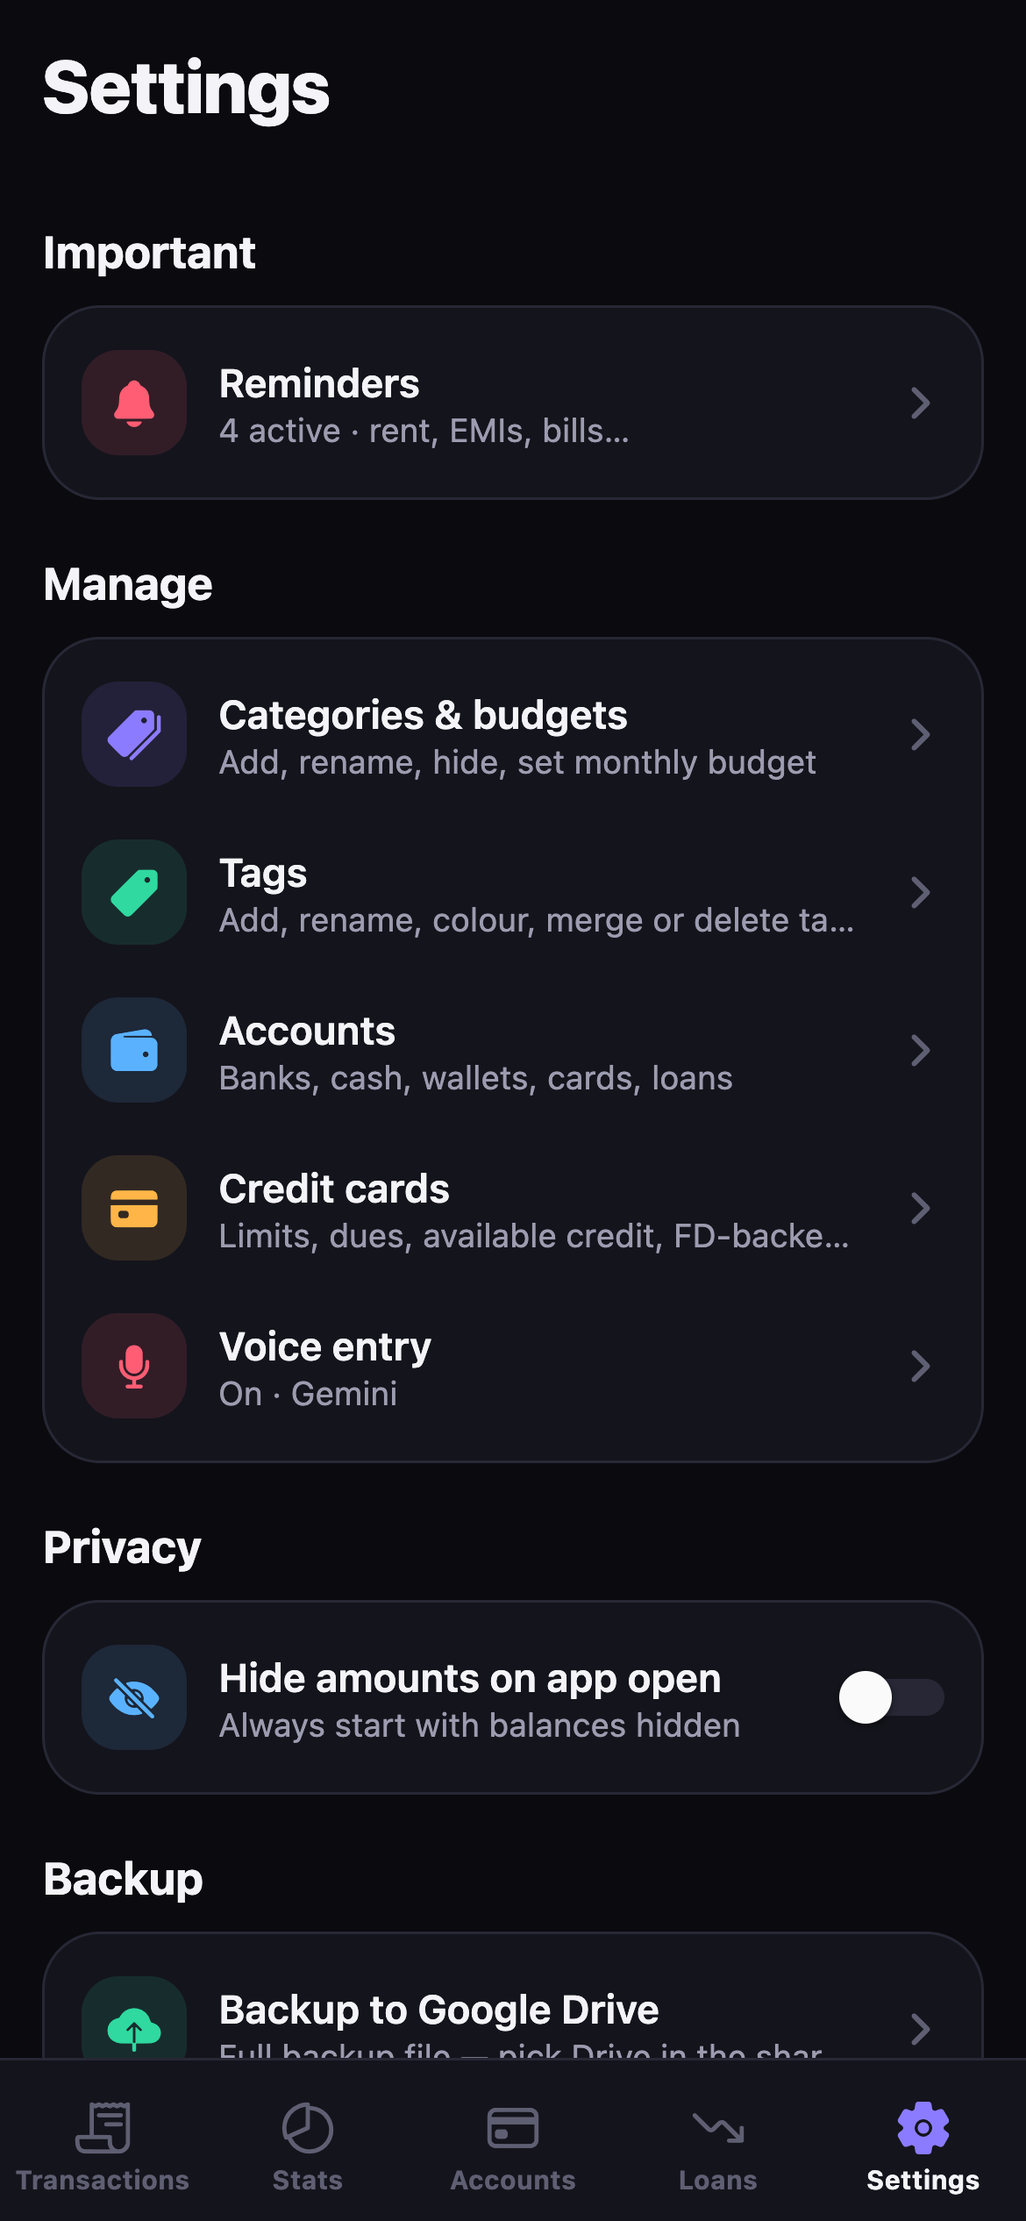
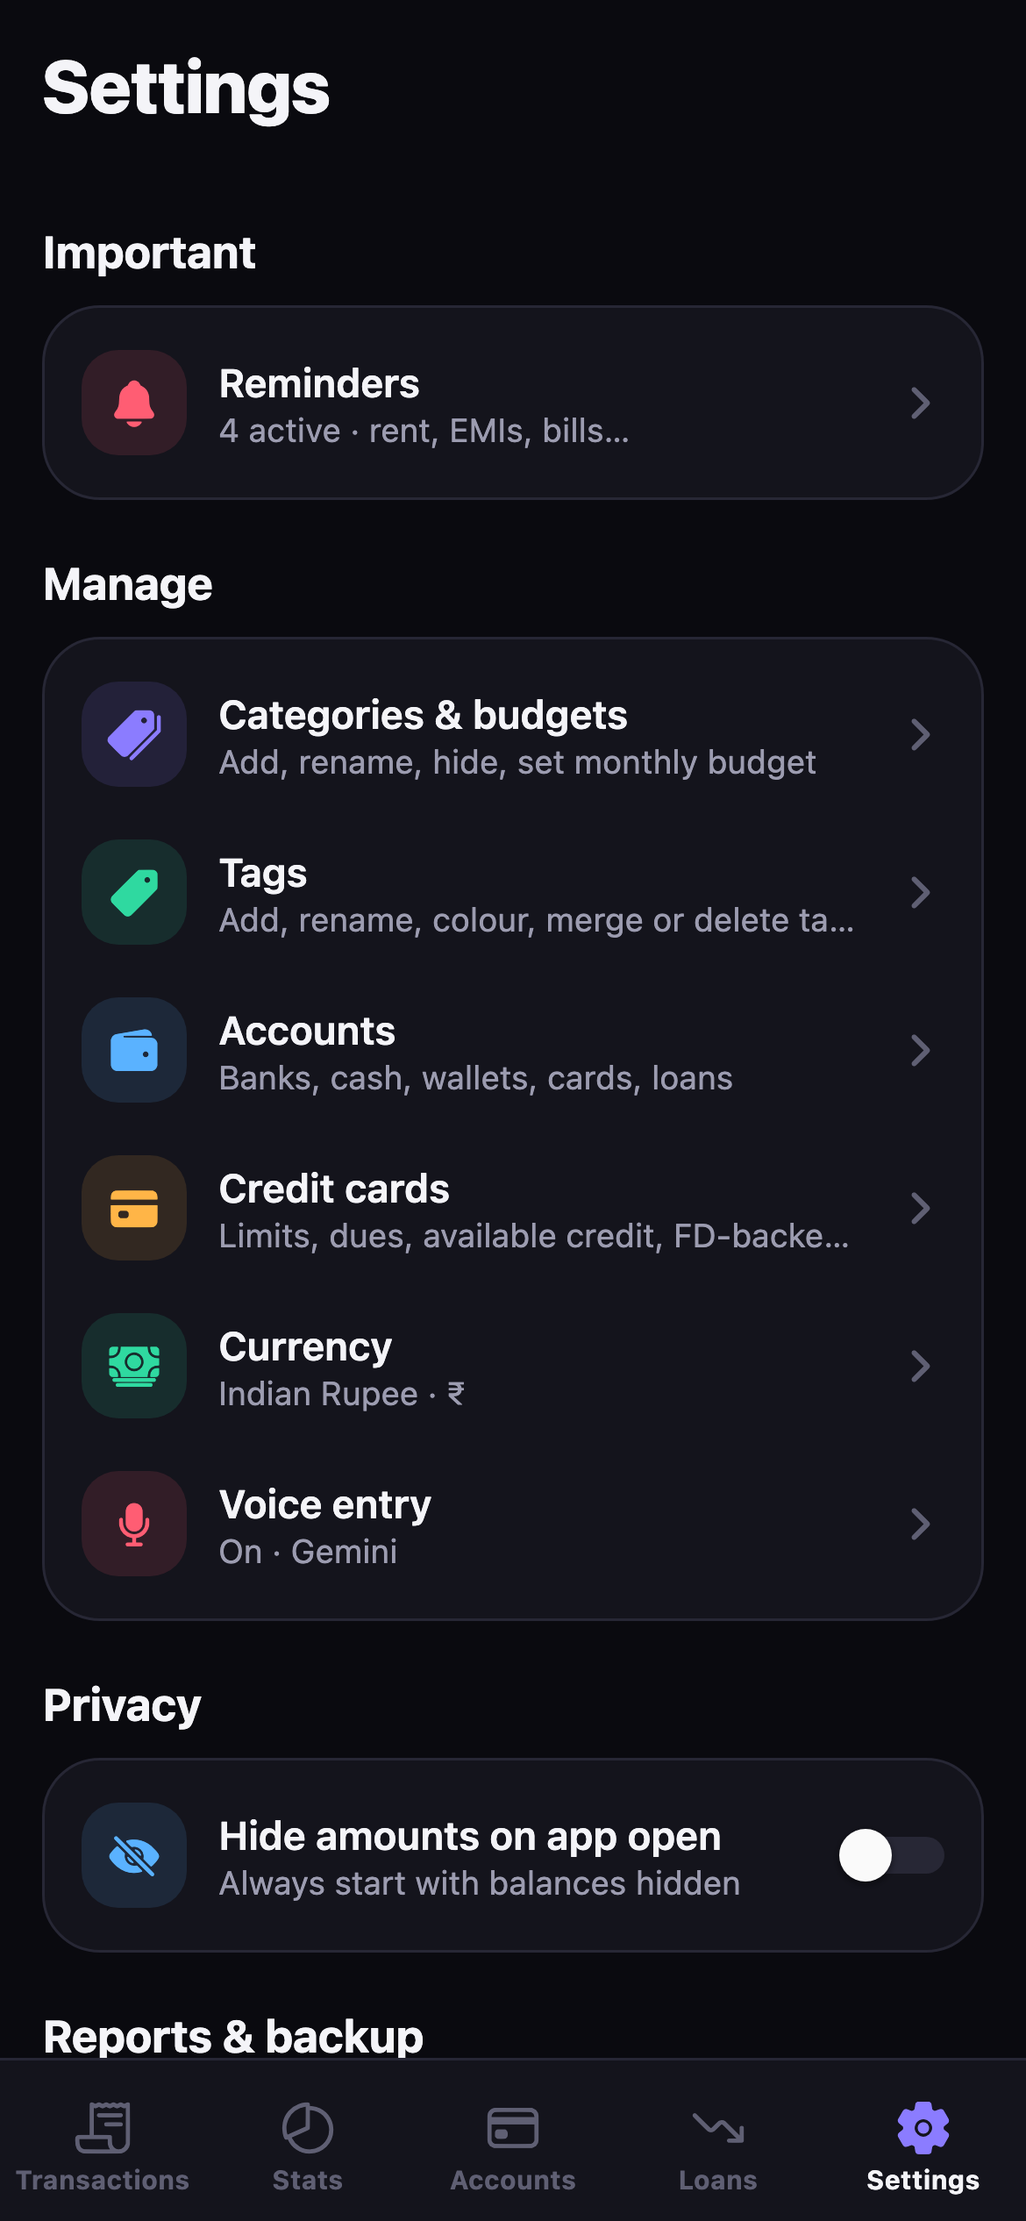
Backup, currency, statements and privacy policy
- Privacy policy page (/privacy) covering on-device data, Gemini, backups
  and Google Drive (drive.appdata, Limited Use), linked from the footer
- Automatic backup showcase, gallery shot and FAQs (uninstall, new phone)
- Currency, PDF statement, first-account and balance-fix copy and screenshots

diff --git a/app/data.ts b/app/data.ts
@@ -1,5 +1,6 @@
 import {
   BellRing,
+  Coins,
   ChartPie,
   CreditCard,
   DatabaseBackup,
@@ -33,8 +34,11 @@ export const SHOTS: Shot[] = [
   { id: '02-add-transaction', title: 'Add with a calculator keypad', group: 'Transactions' },
   { id: '03-hold-to-peek', title: 'Hold to peek', group: 'Transactions' },
   { id: '21-search', title: 'Search and filters', group: 'Transactions' },
+  { id: '28-first-account', title: 'Guided first setup', group: 'Transactions' },
+  { id: '31-dollars', title: 'Dollars, euros and more', group: 'Transactions' },
   { id: '04-voice-guide', title: 'Speak your expenses', group: 'Voice' },
   { id: '05-voice-review', title: 'Check before saving', group: 'Voice' },
+  { id: '29-voice-not-found', title: 'Flags what it can’t find', group: 'Voice' },
   { id: '25-voice-settings', title: 'Voice settings', group: 'Voice' },
   { id: '06-scan-bill', title: 'Scan a bill', group: 'Bill scan' },
   { id: '07-scanning', title: 'AI reads every line', group: 'Bill scan' },
@@ -45,6 +49,8 @@ export const SHOTS: Shot[] = [
   { id: '12-stats-yearly', title: 'The whole year', group: 'Stats' },
   { id: '13-stats-tags', title: 'Yearly categories', group: 'Stats' },
   { id: '14-budgets', title: 'Category budgets', group: 'Stats' },
+  { id: '32-statement', title: 'PDF statements', group: 'Stats' },
+  { id: '33-statement-pdf', title: 'A report you can share', group: 'Stats' },
   { id: '15-accounts', title: 'Accounts and net worth', group: 'Money' },
   { id: '16-credit-cards', title: 'Credit cards', group: 'Money' },
   { id: '17-loans', title: 'Loans and EMIs', group: 'Money' },
@@ -53,7 +59,9 @@ export const SHOTS: Shot[] = [
   { id: '20-tags', title: 'Coloured tags', group: 'Planning' },
   { id: '22-hidden-amounts', title: 'Hide amounts', group: 'Planning' },
   { id: '23-settings', title: 'Settings', group: 'Settings' },
-  { id: '24-settings-more', title: 'Backup, CSV and more', group: 'Settings' },
+  { id: '24-settings-more', title: 'Statements, backup and CSV', group: 'Settings' },
+  { id: '34-backup', title: 'Automatic backup', group: 'Settings' },
+  { id: '30-currency', title: 'Pick your currency', group: 'Settings' },
   { id: '26-help', title: 'Help & FAQ built in', group: 'Settings' },
   { id: '27-update', title: 'In-app updates', group: 'Settings' },
 ];
@@ -74,7 +82,7 @@ export const WAYS = [
     label: 'Speak',
     color: '#8B7CFF',
     title: 'Hold the mic and just say it',
-    body: '“Dairy, milk, 47, today, from cash. Vehicle, fuel, 205, yesterday, from card.” Several entries in one breath. It understands “last Friday” and “on the 5th”, matches your own accounts and tags, and you check everything before it’s saved.',
+    body: '“Dairy, milk, 47, today, from cash. Vehicle, fuel, 205, yesterday, from card.” Several entries in one breath. It understands “last Friday” and “on the 5th”, matches your own accounts and tags, flags any name it can’t find, and you check everything before it’s saved.',
     shots: ['04-voice-guide', '05-voice-review'],
   },
   {
@@ -94,7 +102,7 @@ export const SHOWCASE = [
     kicker: 'Transactions',
     title: 'See where the month is going',
     body: 'Spent this month, what’s left of your budget, income and balance up top. Below, every entry grouped by day with daily totals. Swipe between months.',
-    points: ['Colour-coded #tags for shops, trips and festivals', 'Notes on any entry', 'Indian number format: ₹1,23,456.78'],
+    points: ['Colour-coded #tags for shops, trips and festivals', 'Notes on any entry', '₹ by default, or $, €, £ and 36 more'],
   },
   {
     shot: '03-hold-to-peek',
@@ -125,11 +133,25 @@ export const SHOWCASE = [
     points: ['Per category, every month', 'Budget left on the home screen', 'Hide categories you don’t use'],
   },
   {
+    shot: '33-statement-pdf',
+    kicker: 'PDF statements',
+    title: 'A statement worth sharing',
+    body: 'Pick a week, month, year or your own dates, for all accounts or just one. You get a clean A4 PDF with a summary, cash-flow chart, categories, budgets, account balances and every transaction.',
+    points: ['Running balance for a single account', 'Share to WhatsApp, Gmail, Drive or print', 'Made on your phone, nothing uploaded'],
+  },
+  {
+    shot: '34-backup',
+    kicker: 'Automatic backup',
+    title: 'Uninstall, change phones, keep everything',
+    body: 'Pick a folder once and SmartWallet backs up after every change: the latest copy plus one per day for a week. Reinstall and restore from the home screen in two taps.',
+    points: ['Folder survives uninstall', 'Optional Google Drive sync, hidden app folder', 'Android Google backup included, Gemini key never'],
+  },
+  {
     shot: '15-accounts',
     kicker: 'Accounts',
     title: 'Your whole net worth in one place',
     body: 'Bank, cash, wallet, credit card, fixed deposit and loan, plus your own types like gold or stocks. Live balances, assets and liabilities.',
-    points: ['Transfers never count as spending', 'Balance fixes kept as adjustments', 'Full history per account'],
+    points: ['Transfers never count as spending', 'Fix a balance: opening amount or adjustment', 'Full history per account'],
   },
   {
     shot: '16-credit-cards',
@@ -137,6 +159,13 @@ export const SHOWCASE = [
     title: 'Never miss what you owe',
     body: 'Limit, outstanding, available credit, utilisation, statement day and due day for every card, including FD-backed ones.',
     points: ['Pay bill is a transfer, never double-counted', 'Blocks spending past your limit', 'Due-date reminders'],
+  },
+  {
+    shot: '31-dollars',
+    kicker: 'Any currency',
+    title: 'Rupees, dollars, or 38 others',
+    body: 'Rupees with the Indian number format by default. Switch to US dollars, euros, pounds, dirhams and more in Settings, and every screen, label, voice entry and PDF follows.',
+    points: ['Indian lakh format for ₹, international for the rest', 'Kept in your backups', 'Search 40 currencies'],
   },
   {
     shot: '17-loans',
@@ -172,8 +201,9 @@ export const FEATURES: { icon: LucideIcon; title: string; body: string; color: s
   { icon: EyeOff, title: 'Hide amounts', body: 'One tap hides every number on screen.', color: '#A3A3FF' },
   { icon: Search, title: 'Search', body: 'Notes, categories, tags and amounts, with filters.', color: '#4DE1E8' },
   { icon: Tags, title: 'Categories & tags', body: 'Ready-made set; rename, colour, merge or hide.', color: '#FF7CE0' },
-  { icon: DatabaseBackup, title: 'Backup & CSV', body: 'Google Drive backup, CSV export and import with duplicate checks.', color: '#B6E35A', wide: true },
-  { icon: Sparkles, title: 'Help & updates', body: 'Searchable help inside, and new versions in two taps.', color: '#E8C84D', wide: true },
+  { icon: Coins, title: 'Any currency', body: '₹ with Indian number format by default, or $, €, £, AED and 35 more.', color: '#2FD9A0' },
+  { icon: DatabaseBackup, title: 'PDF, backup & CSV', body: 'PDF statements for any week, month, year or dates you pick. Automatic backup to a folder or Google Drive, CSV export and import.', color: '#B6E35A', wide: true },
+  { icon: Sparkles, title: 'Help & updates', body: 'Searchable help inside, and new versions in two taps.', color: '#E8C84D' },
 ];
 
 export const INSTALL = [
@@ -193,11 +223,15 @@ export const FAQ = [
   { q: 'Is it really free?', a: 'Yes. No ads, no subscriptions, no in-app purchases. If you’d like to say thanks, there’s a Support the developer option in Settings.' },
   { q: 'Is there an iPhone version?', a: 'Not yet. SmartWallet is Android only for now: Android 7.0 or newer on a 64-bit (arm64) phone, which covers almost every phone from the last several years.' },
   { q: 'Why isn’t it on the Play Store?', a: 'It’s distributed on GitHub, so Android asks once for permission to install it. In-app updates are downloaded from the same place and their checksum is verified before installing.' },
-  { q: 'Where is my data stored?', a: 'In one file on your phone. There’s no account, no server and no analytics, so nobody else can see it.' },
+  { q: 'Where is my data stored?', a: 'In one file on your phone, plus the backups you choose: a folder, Android’s Google backup or your own Google Drive. There’s no SmartWallet server and no analytics, so nobody else can see it.' },
   { q: 'What gets sent to Google for voice and bill scanning?', a: 'Only the voice clip or bill image, plus your account, category and tag names so it can match them. Balances and past transactions never leave your phone. Everything else works with no key at all.' },
   { q: 'Do I need to pay for the Gemini key?', a: 'No. Google’s free tier is plenty for personal use and needs no card. The key is stored encrypted on your phone and is never part of backups.' },
-  { q: 'How do I move to a new phone?', a: 'On the old phone use Settings → Backup to Google Drive. On the new phone install SmartWallet, then Settings → Restore backup and pick the file. Add your Gemini key again.' },
+  { q: 'Will I lose my data if I uninstall?', a: 'Not with a backup folder chosen in Settings → Backup. SmartWallet saves to it after every change, and the folder stays when the app is removed. Reinstall and tap Restore from backup on the home screen.' },
+  { q: 'How do I move to a new phone?', a: 'Keep a copy off the old phone: Android’s Google backup, Connect Google Drive in Settings → Backup, or a backup folder synced to Drive. On the new phone install SmartWallet and tap Restore from backup. Add your Gemini key again.' },
   { q: 'Can I bring data from another app?', a: 'Yes. Settings → Import CSV reads any file with Date, Account, Type and Amount columns. Accounts and categories are matched by name or created, and duplicates are skipped.' },
+  { q: 'My balance doesn’t match the bank. How do I fix it?', a: 'Edit the account and type the right balance. If it has entries, pick Fix opening balance when the starting amount was wrong, or Add adjustment entry to record money that moved without a transaction.' },
+  { q: 'Can I use dollars or another currency?', a: 'Yes. Rupees are the default; pick US dollars, euros, pounds, dirhams or any of 40 currencies in Settings → Currency. It changes the symbol and number format only, nothing is converted.' },
+  { q: 'Can I get a statement as a PDF?', a: 'Yes. Settings → Statement PDF, or the document icon on Stats or any account. Pick a week, month, year or your own dates, all accounts or one, then share it to WhatsApp, Gmail, Drive or print it.' },
   { q: 'Does it work offline?', a: 'Everything except voice entry, bill scanning and update checks works with no internet at all.' },
   { q: 'How do updates work?', a: 'SmartWallet checks for new versions and shows a popup with what’s new. Tap Update now, or later from Settings → App updates. Your data stays as it is.' },
 ];

diff --git a/app/privacy/page.tsx b/app/privacy/page.tsx
@@ -1,0 +1,115 @@
+import type { Metadata } from 'next';
+
+export const metadata: Metadata = {
+  title: 'Privacy policy · SmartWallet',
+  description: 'What SmartWallet stores, what it sends, how Google Drive backup works and how to delete your data.',
+};
+
+const BASE = process.env.NEXT_PUBLIC_BASE ?? '';
+
+export default function Privacy() {
+  return (
+    <main className="wrap legal">
+      <a href={`${BASE}/`} className="kicker">
+        ← SmartWallet
+      </a>
+      <h1>Privacy policy</h1>
+      <p className="lead">Effective 15 November 2026</p>
+      <p>
+        SmartWallet is a free personal finance app for Android. This policy explains what data the app handles, where it goes, and how you can delete it. It applies to the SmartWallet app and to this website.
+      </p>
+
+      <h2>Summary</h2>
+      <ul>
+        <li>No SmartWallet account, no SmartWallet server, no ads, no analytics, no tracking.</li>
+        <li>Your financial data is stored on your phone and in backups you choose.</li>
+        <li>The developer never receives, sells or shares your data.</li>
+      </ul>
+
+      <h2>Data stored on your phone</h2>
+      <p>
+        Accounts, transactions, categories, tags, budgets, reminders, bill photos and app settings are stored in the app’s private storage on your phone. Your Gemini API key, if you add one, is stored encrypted
+        with the phone’s secure storage.
+      </p>
+
+      <h2>Voice entry and bill scanning (optional)</h2>
+      <p>
+        These features use Google Gemini with an API key you create yourself. When you use them, the voice clip or bill image is sent directly from your phone to Google, along with your account, category and tag
+        names so the entry can be matched. Balances and past transactions are not sent. Google processes that request under its own terms and privacy policy. Nothing is sent if you don’t use these features.
+      </p>
+
+      <h2>Backups</h2>
+      <ul>
+        <li>
+          <strong>Backup folder:</strong> if you choose a folder, a backup file (your data and display settings, never your Gemini key) is written to it after changes. On Android this is a folder on your phone;
+          on iPhone it can be an iCloud Drive folder.
+        </li>
+        <li>
+          <strong>Android backup:</strong> if backup is turned on in your phone’s settings, Android may include the app’s data file and display settings in your Google account backup. Bill photos and the Gemini
+          key are excluded.
+        </li>
+        <li>
+          <strong>Share backup file:</strong> a file is only sent where you choose in the share menu.
+        </li>
+      </ul>
+
+      <h2>Google Drive backup and Google user data (optional)</h2>
+      <p>If you tap Connect Google Drive, you sign in with Google and SmartWallet requests one permission:</p>
+      <ul>
+        <li>
+          <code>https://www.googleapis.com/auth/drive.appdata</code>: see, create and delete SmartWallet’s own files in a hidden app folder in your Google Drive. SmartWallet cannot see, open or change any
+          other file in your Drive.
+        </li>
+      </ul>
+      <p>
+        <strong>How it is used:</strong> only to upload your SmartWallet backup file (the latest copy plus up to 7 daily copies) and to download it when you restore. Your Google account email is shown in the app
+        so you know which account is connected.
+      </p>
+      <p>
+        <strong>Where it goes:</strong> the backup travels directly between your phone and Google Drive over HTTPS. It is never sent to the developer or any other server, and the developer cannot access it.
+      </p>
+      <p>
+        <strong>Sharing:</strong> data from Google APIs is not shared with, transferred to or sold to anyone, is not used for advertising, and is not used to develop or train AI or machine learning models. No human
+        reads it.
+      </p>
+      <p>
+        SmartWallet’s use and transfer of information received from Google APIs adheres to the{' '}
+        <a href="https://developers.google.com/terms/api-services-user-data-policy">Google API Services User Data Policy</a>, including the Limited Use requirements.
+      </p>
+
+      <h2>Keeping and deleting your data</h2>
+      <ul>
+        <li>
+          <strong>On your phone:</strong> data stays until you delete it in the app or uninstall the app.
+        </li>
+        <li>
+          <strong>Backup folder:</strong> delete the SmartWallet backup files from that folder with any file manager.
+        </li>
+        <li>
+          <strong>Google Drive:</strong> tap Disconnect in Settings → Backup to stop uploads. To delete the backups stored in Drive, open Google Drive on the web → Settings → Manage apps → SmartWallet → Options →
+          Delete hidden app data. To remove SmartWallet’s access, visit <a href="https://myaccount.google.com/connections">myaccount.google.com/connections</a>.
+        </li>
+        <li>
+          <strong>Android backup:</strong> managed in your phone’s backup settings and your Google account.
+        </li>
+      </ul>
+
+      <h2>Other network requests</h2>
+      <p>The app checks GitHub for new versions and downloads updates from GitHub. These requests contain no personal or financial data.</p>
+
+      <h2>Security</h2>
+      <p>All network traffic uses HTTPS. The Gemini key is stored encrypted. Because data lives on your device, keep your phone locked and your backups somewhere safe.</p>
+
+      <h2>Children</h2>
+      <p>SmartWallet is not directed at children under 13 and does not knowingly collect their data.</p>
+
+      <h2>Changes</h2>
+      <p>If this policy changes, the new version will be posted on this page with a new effective date.</p>
+
+      <h2>Contact</h2>
+      <p>
+        Questions or deletion help: <a href="mailto:dev.buildmode@gmail.com">dev.buildmode@gmail.com</a>
+      </p>
+    </main>
+  );
+}

diff --git a/app/page.tsx b/app/page.tsx
@@ -2,7 +2,7 @@ import { ArrowDown, ArrowUpRight, BadgeCheck, CloudOff, HardDrive, KeyRound, Loc
 import { asset, FEATURES, GEMINI, INSTALL, REPO, SHOTS } from './data';
 import { AndroidIcon, DownloadButton, Faq, Gallery, HeroVisual, MotionRoot, Nav, Phone, Reveal, ScrollBar, Showcase, Spotlight, Ways } from './ui';
 
-const MARQUEE = ['Free forever', 'No ads', 'No sign-up', 'Works offline', 'Voice entry', 'AI bill scanning', 'Budgets', 'Credit cards', 'Loans & EMIs', 'Reminders', 'Google Drive backup', 'CSV import & export', 'Hide amounts', '₹ Indian number format'];
+const MARQUEE = ['Free forever', 'No ads', 'No sign-up', 'Works offline', 'Voice entry', 'AI bill scanning', 'Budgets', 'Credit cards', 'Loans & EMIs', 'Reminders', 'Google Drive backup', 'PDF statements', 'CSV import & export', 'Hide amounts', '40 currencies', '₹ Indian number format'];
 
 function Head({ kicker, title, sub }: { kicker: string; title: React.ReactNode; sub?: string }) {
   return (
@@ -111,7 +111,7 @@ export default function Home() {
         </section>
 
         <section className="section wrap">
-          <Head kicker="And there’s more" title="Built for how India spends." />
+          <Head kicker="And there’s more" title="Built for how you spend." />
           <div className="bento">
             {FEATURES.map((f, i) => (
               <Reveal key={f.title} delay={(i % 4) * 0.06} className={f.wide ? 'bento-wide' : ''}>
@@ -295,6 +295,7 @@ export default function Home() {
             Report an issue
           </a>
           <a href="#faq">FAQ</a>
+          <a href={`${process.env.NEXT_PUBLIC_BASE}/privacy/`}>Privacy</a>
         </nav>
         <p>Android only · Screenshots use sample data · Made in India</p>
       </footer>

diff --git a/app/globals.css b/app/globals.css
@@ -1740,6 +1740,7 @@ h4 {
   }
   .bento {
     grid-template-columns: repeat(2, 1fr);
+    grid-auto-flow: dense;
   }
   .privacy,
   .install,
@@ -1946,4 +1947,37 @@ h4 {
     animation: none !important;
     transition-duration: 0.01ms !important;
   }
+}
+
+.legal {
+  max-width: 760px;
+  padding-top: 64px;
+  padding-bottom: 96px;
+}
+.legal h1 {
+  font-family: var(--font-display);
+  font-size: clamp(2rem, 6vw, 3rem);
+  margin: 16px 0 8px;
+}
+.legal h2 {
+  font-family: var(--font-display);
+  font-size: 1.3rem;
+  margin: 36px 0 10px;
+}
+.legal p,
+.legal li {
+  line-height: 1.65;
+  opacity: 0.88;
+}
+.legal ul {
+  list-style: disc;
+  padding-left: 20px;
+  display: grid;
+  gap: 10px;
+}
+.legal code {
+  overflow-wrap: anywhere;
+}
+.legal a:not(.kicker) {
+  text-decoration: underline;
 }

diff --git a/app/layout.tsx b/app/layout.tsx
@@ -14,7 +14,7 @@ export const metadata: Metadata = {
   title,
   description,
   applicationName: 'SmartWallet',
-  keywords: ['expense tracker', 'money manager', 'budget app', 'Android', 'India', 'rupee', 'bill scanner', 'voice expense', 'offline'],
+  keywords: ['expense tracker', 'money manager', 'budget app', 'Android', 'India', 'rupee', 'dollar', 'multi-currency', 'bill scanner', 'voice expense', 'offline'],
   openGraph: { title, description, url: SITE, siteName: 'SmartWallet', type: 'website', images: [{ url: `${SITE}og.png`, width: 1200, height: 630 }] },
   twitter: { card: 'summary_large_image', title, description, images: [`${SITE}og.png`] },
 };
